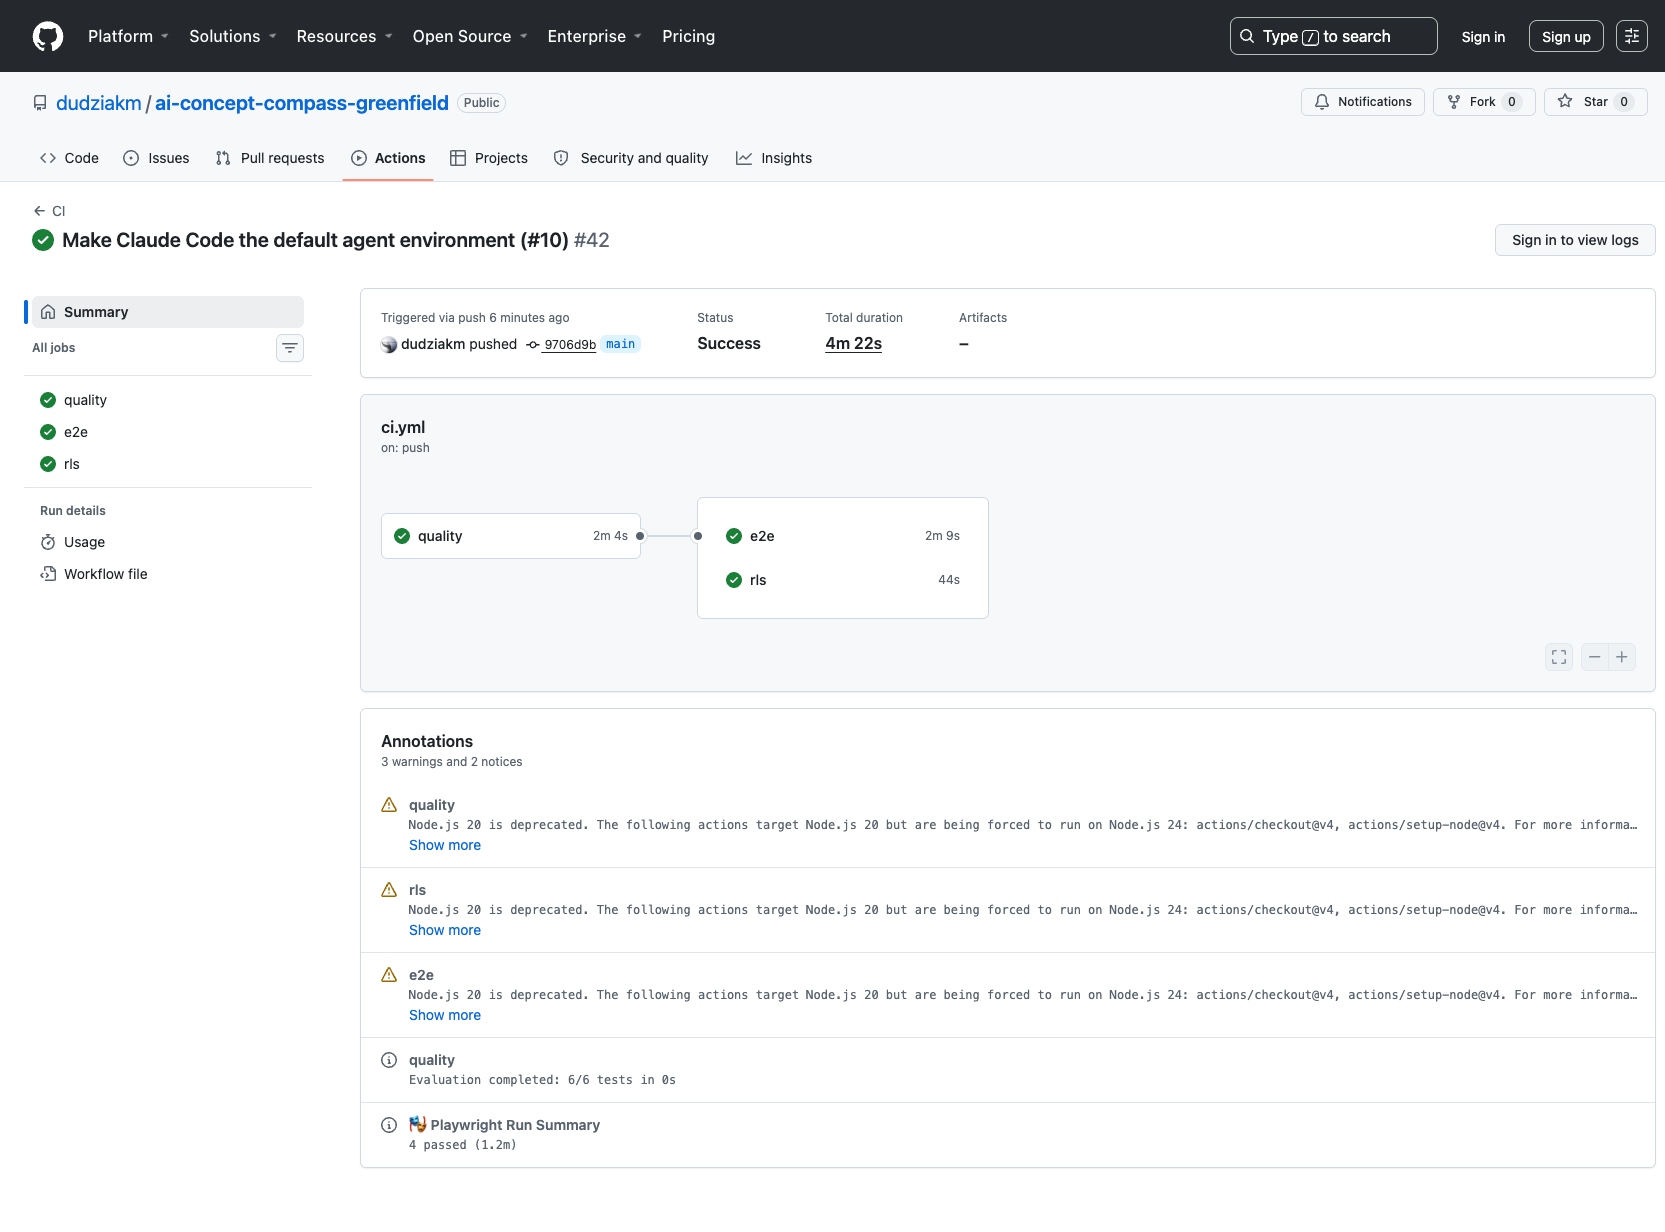
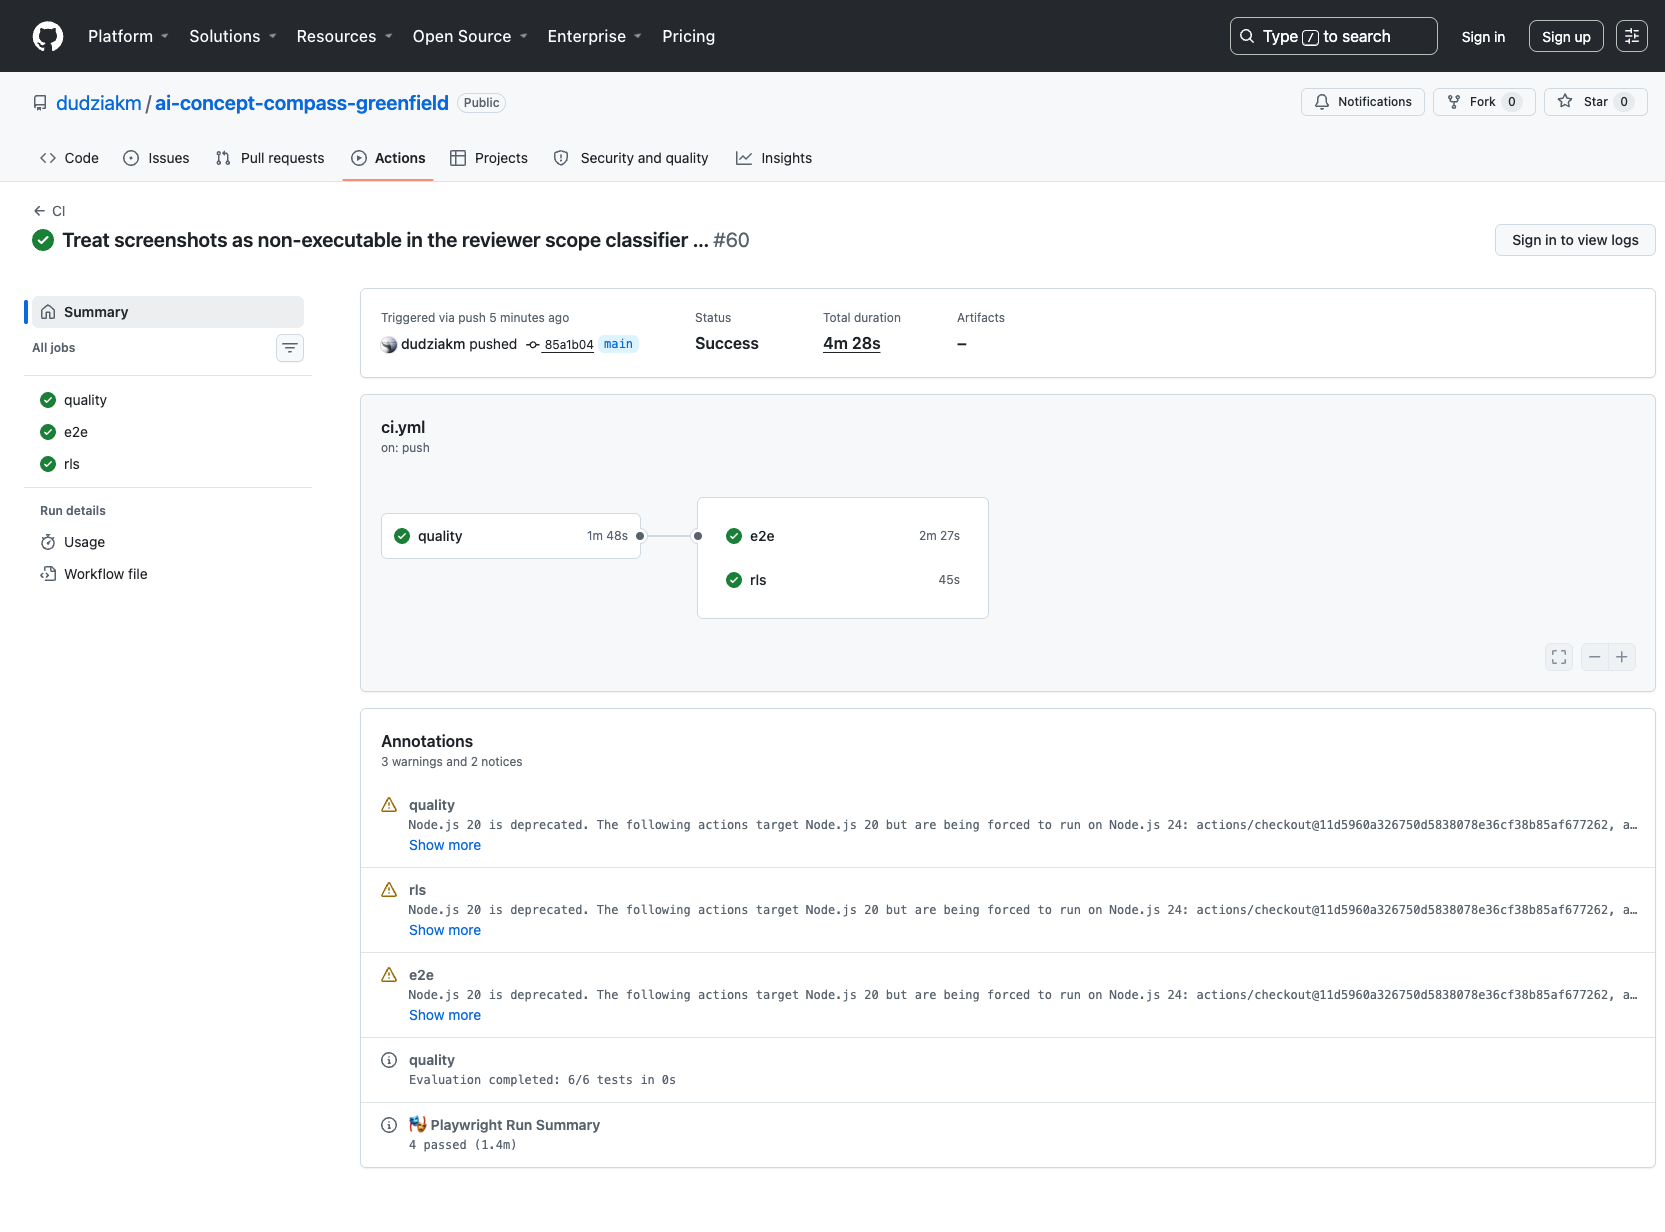
Record the change folder, serialise hosted gates and refresh the test evidence (#16)
Open context/changes/claude-code-first-workflow/ after the fact and say so; the arc
began as a review of #9 and grew into seven merged pull requests, so AGENTS.md step
3 was not followed. Progress rows cite real merge SHAs.

Serialise e2e and rls across refs. The critical-flow spec mutates rows for one
shared hosted account and playwright.config.ts pins workers: 1 for that reason,
but that only serialises within a run. Two pull requests running e2e at once
collided and produced a failure that looked like a product bug.

Correct the review-attempt invariant: the migration declares only SELECT and
INSERT for review_attempts, so attempts are append-only. Whether they should be
correctable is recorded as an open product decision.

Refresh green-tests-ci.png to run 31021070538 on 85a1b04, the current head.

diff --git a/context/changes/claude-code-first-workflow/plan.md b/context/changes/claude-code-first-workflow/plan.md
@@ -1,0 +1,128 @@
+# Implementation plan — Claude Code-first workflow
+
+Recorded after implementation. See `change.md` for why, and treat the Progress
+rows as the verifiable part of this record: every one cites a merge SHA that
+exists on `main`.
+
+## Phase 1: Make Claude Code the default environment
+
+### Automated success criteria
+
+- `.claude/settings.json`, `.mcp.json` and the generated
+  `.claude/skills/code-review/SKILL.md` exist on the default branch and are
+  asserted by `scripts/verify-workflow-artifacts.mjs`.
+- `.mcp.json` carries no token, project reference, API key or account id.
+- The generated skill is byte-identical to the canonical `skills/code-review/SKILL.md`.
+- `.gitignore` re-includes `.claude/`, because a global `core.excludesFile` would
+  otherwise keep the whole agent configuration out of the repository.
+- Reviewer findings are grounded in per-file diff hunk ranges, so a finding about
+  removed code stays reportable; grounding fails closed on an unparsable diff and
+  withheld findings are returned as `droppedFindings`.
+
+## Phase 2: Close the Module 3 hook exercise
+
+### Automated success criteria
+
+- The hook exits `2` on any failure and reports both checks.
+- `scripts/verify-workflow-artifacts.mjs` rejects a script without `exit 2`, a
+  stderr redirect, or with a bare `npm run` that would propagate its own status.
+- `tests/post-edit-hook.test.ts` covers the mapping against an `npm` shim.
+- `.dev.vars` and `.dev.vars.*` are ignored.
+
+### Manual success criteria
+
+- The `PostToolUse` event is observed firing on a real agent edit, and the exit-2
+  text is observed arriving in an agent's context.
+
+## Phase 3: Complete the submission evidence
+
+### Automated success criteria
+
+- Every required Builder form field has a file, and the mapping is written down.
+- No screenshot in `context/evidence/screenshots/` shows an account address.
+- The Champion merge-block screenshots exist on a remote branch.
+
+## Phase 4: Make the documents agree with the repository
+
+### Automated success criteria
+
+- No document claims the ruleset is unenforced, that the published toolkit
+  package is installed, that 53 tests pass, or that Module 3 is outstanding.
+- `roadmap.md` statuses match delivery evidence and pass the status vocabulary
+  check.
+- The migration ledger drift is recorded as a dated accepted risk.
+
+## Phase 5: Harden CI and the reviewer
+
+### Automated success criteria
+
+- No `uses:` reference in any workflow is a moving tag.
+- Every checkout sets `persist-credentials: false`.
+- Every `npm ci` runs with `--ignore-scripts`, with any native rebuild named
+  explicitly.
+- A pull request containing only prose and screenshots classifies as
+  `documentation-only`.
+
+## Progress
+
+### Phase 1
+
+#### Automated
+
+- [x] 1.1 Claude Code default environment, MCP config, generated skill, artifact
+  guards — PR #10, squash `9706d9b`
+- [x] 1.2 Diff-hunk grounding with fail-closed behaviour and `droppedFindings` —
+  PR #10, squash `9706d9b`
+
+### Phase 2
+
+#### Automated
+
+- [x] 2.1 Exit-2 contract, static guard, `.dev.vars` ignore, deny-list widening —
+  PR #11, squash `6c034b5`
+- [x] 2.2 Behavioural contract test against an `npm` shim — PR #11, squash `6c034b5`
+
+#### Manual
+
+- [x] 2.M1 `PostToolUse` observed firing on a real agent edit —
+  `context/evidence/m3-hook-observation-2026-08-05.md`, probe A
+- [x] 2.M2 Exit-2 text observed reaching an agent's context — same record, probe B
+
+### Phase 3
+
+#### Automated
+
+- [x] 3.1 Four required Builder screenshots, the optional login screen, the
+  Champion merge-block pair, and the inventory — PR #12, squash `cabc23f`
+- [x] 3.2 Account addresses redacted in every screenshot that showed one —
+  PR #12, squash `cabc23f`
+
+### Phase 4
+
+#### Automated
+
+- [x] 4.1 Eleven contradicted statements corrected; roadmap statuses, PRD open
+  question, MVP status and the accepted migration risk — PR #13, squash `4881e10`
+
+### Phase 5
+
+#### Automated
+
+- [x] 5.1 Action SHAs, `persist-credentials: false`, `--ignore-scripts` with an
+  explicit `better-sqlite3` rebuild — PR #14
+- [x] 5.2 Screenshots classified as non-executable in the reviewer scope — PR #15
+
+## Verification
+
+The `quality`, `e2e` and `rls` gates are green on `main` for every squash above.
+The AI Code Review Gate produced a real fail then pass across PR #11
+(`verdict=fail findings=3 dropped=0 cost_usd=0.0012`, then `pass` after the
+contract test landed), which is a fresh instance of the Module 5 Lesson 3
+lifecycle on current code.
+
+## Known deviation
+
+This folder was opened after the work, not before it. `AGENTS.md` step 3 requires
+the opposite order. The deviation is recorded rather than concealed; the arc began
+as a review of pull request #9 and expanded once that review found the proposal
+regressive.

diff --git a/context/changes/claude-code-first-workflow/change.md b/context/changes/claude-code-first-workflow/change.md
@@ -1,0 +1,56 @@
+---
+change_id: claude-code-first-workflow
+title: Move the repository to a Claude Code-first workflow and close the certification gaps
+status: implemented
+created: 2026-08-05
+updated: 2026-08-05
+archived_at: null
+---
+
+# Claude Code-first workflow
+
+## Why this record exists and why it is dated after the work
+
+`AGENTS.md` step 3 of the change workflow requires implementing only against an
+approved `plan.md`. This arc did not do that: it began as a review of the open
+pull request #9 and grew into seven merged pull requests once that review found
+the proposal was both strategically wrong and technically regressive.
+
+This folder is therefore written **after** the implementation, and says so rather
+than back-dating a plan it never had. The Progress rows below cite real merge
+SHAs, so the record is verifiable even though the order was not the documented
+one. Future changes open the folder first.
+
+## Problem
+
+The owner ran the project through Codex and then Cursor; both exhausted their
+usage limits mid-sprint. Pull request #9 proposed making Cursor the default. That
+would have been the third tool switch, and its diff also narrowed lint coverage
+and made a class of findings structurally unreportable.
+
+Separately, an independent audit found that the repository's own documents
+contradicted the repository in eleven places, that the Builder submission was
+missing required screenshot evidence, and that the Module 3 hook exercise was
+described as outstanding when the course does not require the tool it named.
+
+## Scope
+
+- Agent configuration: `.claude/settings.json`, `.mcp.json`, `CLAUDE.md`,
+  `.claude/skills/`, `scripts/post-edit-quality.sh`
+- Reviewer package: diff grounding, scope classification, contract tests
+- CI: action pinning, credential persistence, install-time scripts
+- Evidence: Builder screenshots, Champion merge-block screenshots, the hook
+  observation record, the screenshot inventory
+- Plan-of-record documents that disagreed with the repository
+
+## Boundaries
+
+- No product rule, scoring formula or database schema changes.
+- No Astro 7 upgrade, no action major-version bumps during the sprint.
+- No live mutation of the hosted Supabase project. The migration ledger drift is
+  recorded as a dated accepted risk in
+  `context/changes/ai-concept-compass-mvp/verification.md` rather than repaired.
+- The AI Code Review Gate stays advisory; the three deterministic gates stay
+  required.
+- Screenshots are redacted, never retouched. Historical evidence is not edited to
+  look more consistent than it was.

diff --git a/context/evidence/mission-log-fields.md b/context/evidence/mission-log-fields.md
@@ -44,8 +44,8 @@ w treści komentarza.
       odsłonięty wzorzec odpowiedzi, samoocena, postęp pięciu domen AWS);
 - [x] screenshot zielonego testu lub zestawu testów *;
       `screenshots/builder/green-tests-ci.png` — podsumowanie Actions dla runu
-      `31016045921` na `main` (`quality`, `e2e`, `rls` zielone, adnotacje
-      `Evaluation completed: 6/6` i `Playwright Run Summary 4 passed (1.2m)`);
+      `31021070538` na `main` (`quality`, `e2e`, `rls` zielone, adnotacje
+      `Evaluation completed: 6/6` i `Playwright Run Summary 4 passed (1.4m)`);
 - [ ] załączniki niestandardowe — opcjonalne i celowo pominięte: formularz sam
       pisze, że organizatorzy mają dostęp do repozytorium, więc dołączanie
       plików już obecnych w repo nic nie dodaje;
@@ -53,7 +53,7 @@ w treści komentarza.
       `Własny projekt AI Concept Compass zrealizowany plan-first w Astro 6,
       React 19 i Supabase. Publiczna aplikacja działa na Cloudflare Workers.
       CI dla kanonicznego repozytorium obejmuje quality, hosted E2E i testy RLS
-      jako trzy niezależne bramki merge; run 31016045921 na main jest zielony we
+      jako trzy niezależne bramki merge; run 31021070538 na main jest zielony we
       wszystkich trzech, a publiczna suite E2E przeszła 4/4 na hosted Supabase.
       Repozytorium jest skonfigurowane pod Claude Code: .claude/settings.json
       z hookiem PostToolUse, .mcp.json dla Supabase i Cloudflare, oraz reguła
@@ -64,10 +64,10 @@ w treści komentarza.
 
 - [x] URL repozytorium;
 - [x] URL pełnego zielonego runu CI dla kanonicznego repozytorium:
-      <https://github.com/dudziakm/ai-concept-compass-greenfield/actions/runs/31016045921>
-      (`quality` 2m4s, `e2e` 2m9s, `rls` 44s — wszystkie zielone dla squasha
-      `9706d9b` na `main`, 5 sierpnia 2026). Ten run zastępuje starszy
-      `30715121885` na `28bc365`, który poprzedzał 1089 wstawień;
+      <https://github.com/dudziakm/ai-concept-compass-greenfield/actions/runs/31021070538>
+      (`quality` 1m48s, `e2e` 2m27s, `rls` 45s — wszystkie zielone dla squasha
+      `85a1b04` na `main`, 5 sierpnia 2026). Ten run zastępuje starszy
+      `30715121885` na `28bc365`, który poprzedzał sześć scalonych PR-ów;
 - [x] URL wdrożenia: <https://ai-concept-compass.dudziak-michal.workers.dev>
       (Cloudflare deployment `8c09f7d2-a731-497f-a8e3-4223ab652ff6`, version
       `8908bbab-5dfb-47e4-9edd-dc55b3fa5561`);

diff --git a/context/evidence/screenshot-inventory-2026-08-05.md b/context/evidence/screenshot-inventory-2026-08-05.md
@@ -7,7 +7,7 @@ z żywych formularzy 5 sierpnia 2026, nie z transkrypcji.
 
 | Pole formularza                                  | Wymagane | Plik                                            | Co pokazuje                                                                                             |
 |--------------------------------------------------|----------|-------------------------------------------------|---------------------------------------------------------------------------------------------------------|
-| Screenshot: Poprawnie działający test lub zestaw testów | **tak**  | `screenshots/builder/green-tests-ci.png`        | Podsumowanie Actions runu `31016045921` na `main` @ `9706d9b`: `Success`, `quality` 2m4s, `e2e` 2m9s, `rls` 44s, adnotacje `Evaluation completed: 6/6` i `Playwright Run Summary 4 passed (1.2m)` |
+| Screenshot: Poprawnie działający test lub zestaw testów | **tak**  | `screenshots/builder/green-tests-ci.png`        | Podsumowanie Actions runu `31021070538` na `main` @ `85a1b04`: `Success`, `quality` 1m48s, `e2e` 2m27s, `rls` 45s, adnotacje `Evaluation completed: 6/6` i `Playwright Run Summary 4 passed (1.4m)` |
 | Screenshot: Strona główna / Ekran po zalogowaniu  | **tak**  | `screenshots/builder/public-home-after-login.png` | Dashboard po zalogowaniu na publicznym wdrożeniu: średnie mastery, liczniki, panel powtórki, postęp pięciu domen AWS, lista dziesięciu pojęć |
 | Screenshot: Główna funkcjonalność nr 1            | **tak**  | `screenshots/builder/public-concept-form.png`   | Modal „Dodaj własne pojęcie" z pięcioma wypełnionymi polami — etykieta formularza podaje jako przykład „formularz zapisu danych" |
 | Screenshot: Główna funkcjonalność nr 2            | **tak**  | `screenshots/builder/public-calibration-review.png` | Pełna mechanika kalibracji: wybrana pewność 3/5, odsłonięty wzorzec odpowiedzi, samoocena `Błędnie` / `Częściowo` / `Poprawnie`, obok postęp domen |

diff --git a/AGENTS.md b/AGENTS.md
@@ -67,7 +67,12 @@ not silently rewrite product rules to match an implementation shortcut.
 
 ## Product invariants
 
-- A user may read and mutate only their own concepts and review attempts.
+- A user may read and mutate only their own concepts, and may read and create only
+  their own review attempts. Attempts are **append-only**: the migration declares
+  SELECT and INSERT policies for `review_attempts` and no UPDATE or DELETE, so an
+  attempt disappears only through the cascade when its concept is deleted. Whether
+  a learner should be able to correct a recorded attempt is an open product
+  decision, not a settled invariant — do not add the missing policies without one.
 - The browser uses only the public Supabase key. Never introduce a
   `service_role` key into application or CI runtime.
 - Starter-pack loading is idempotent per user and template.
